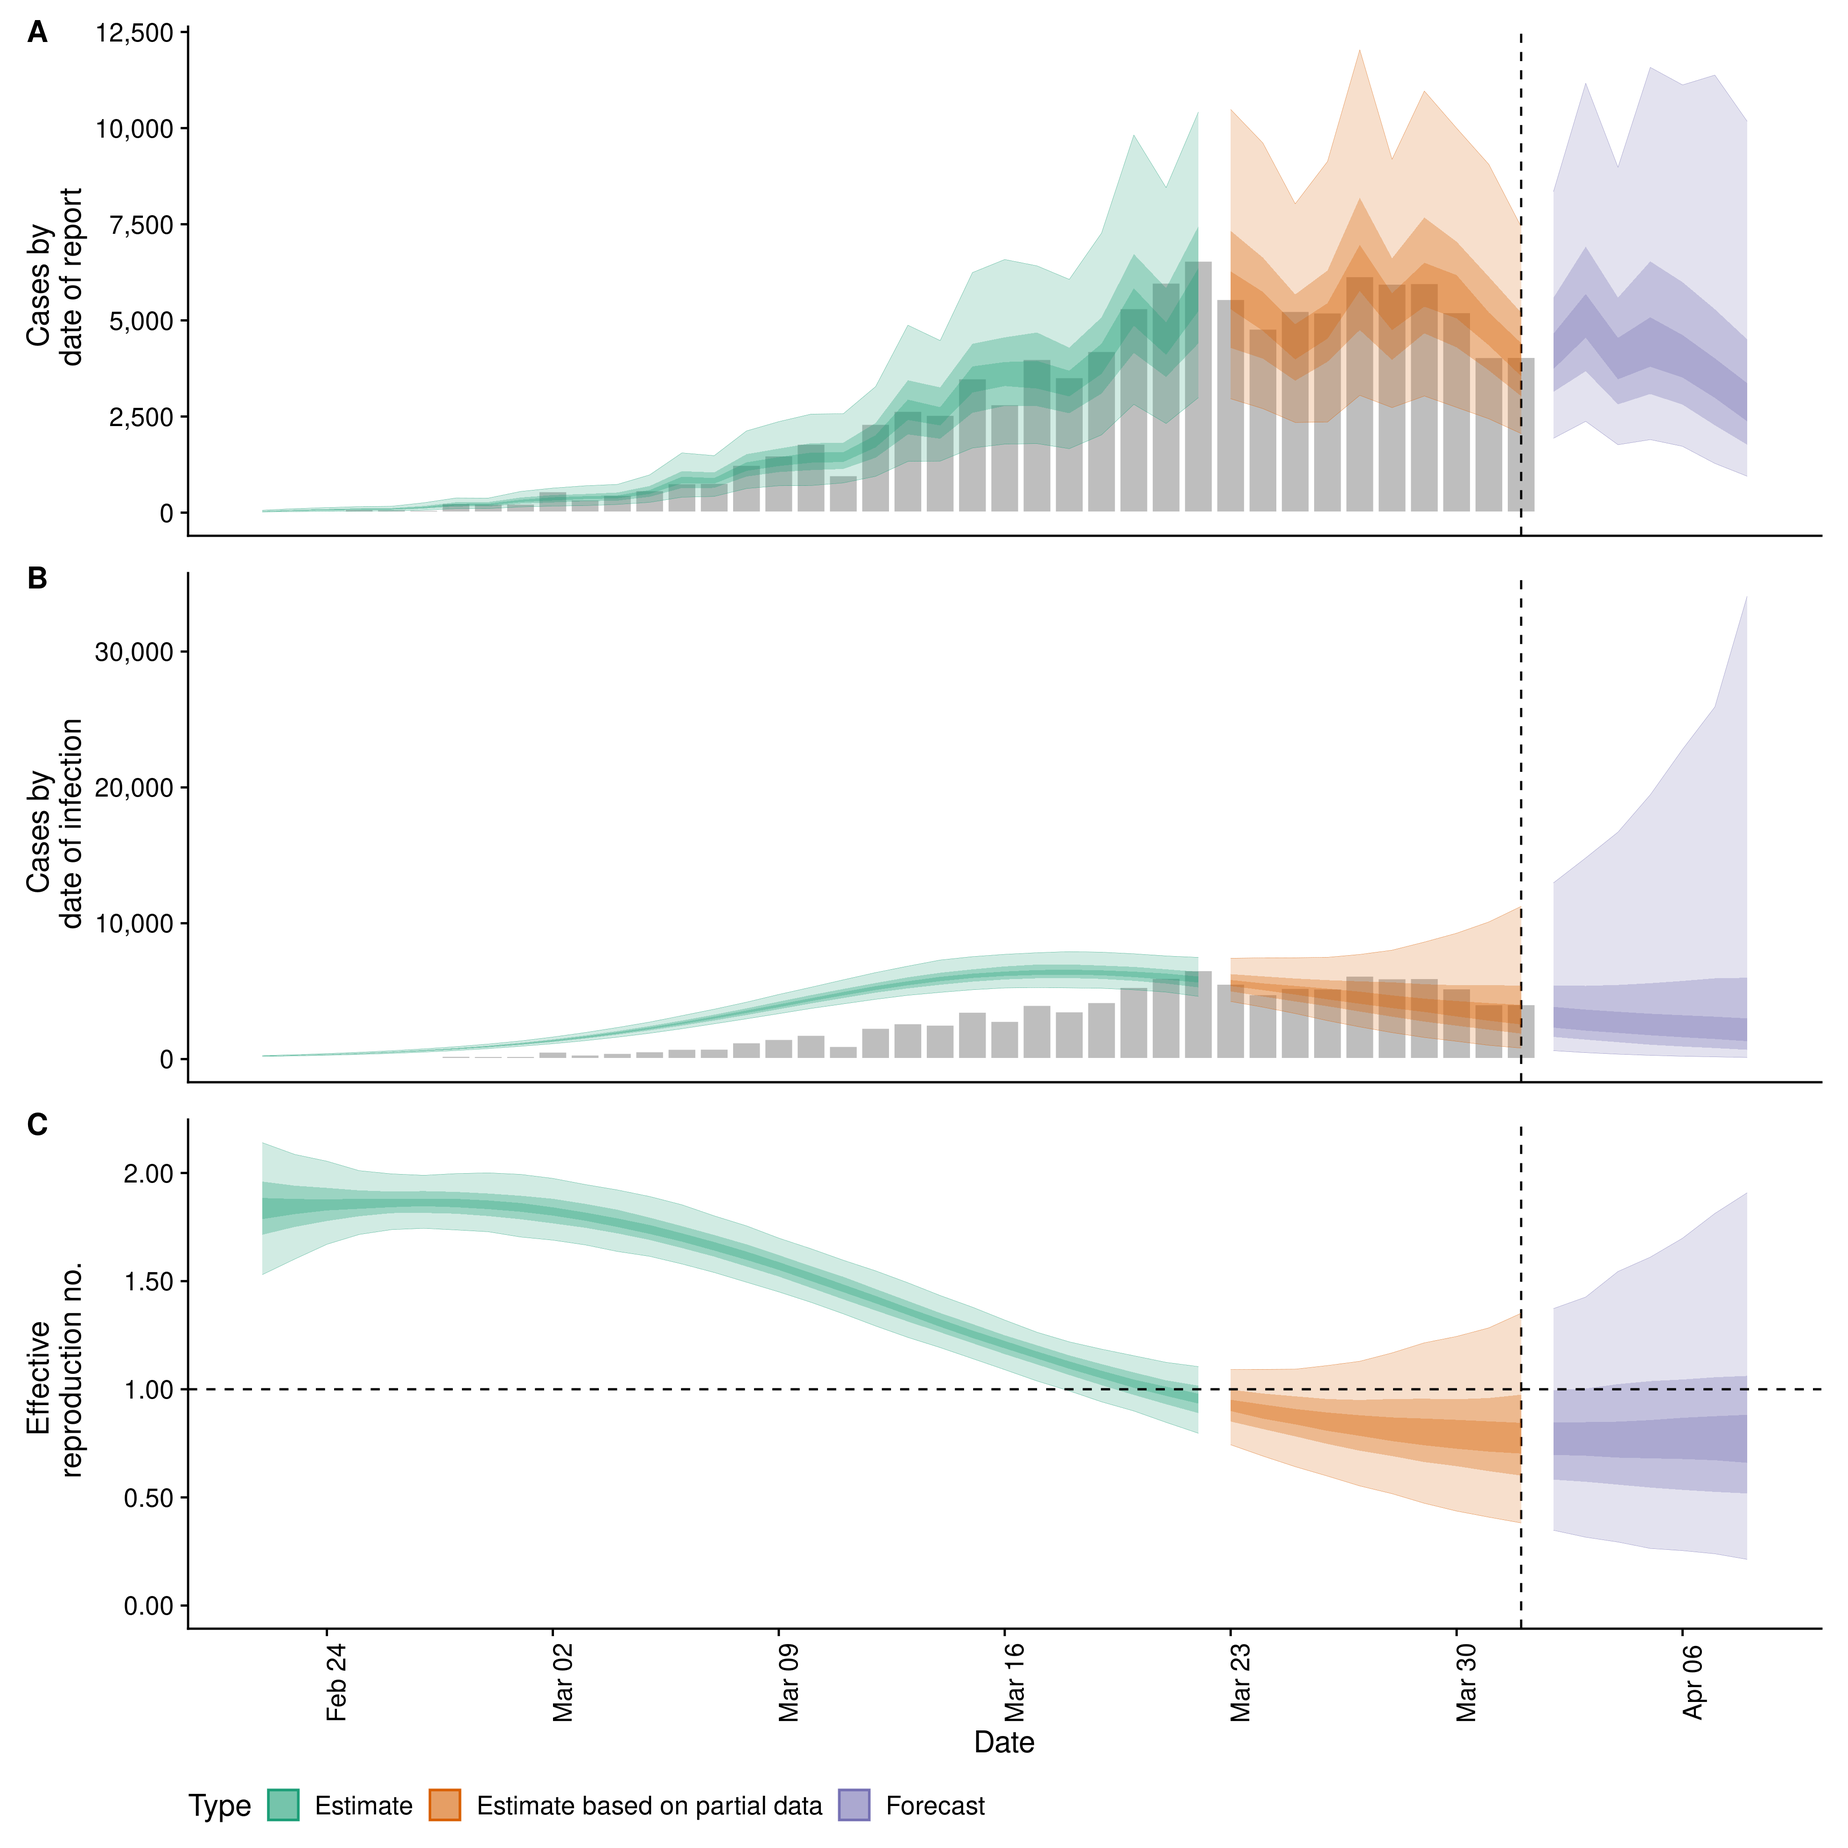
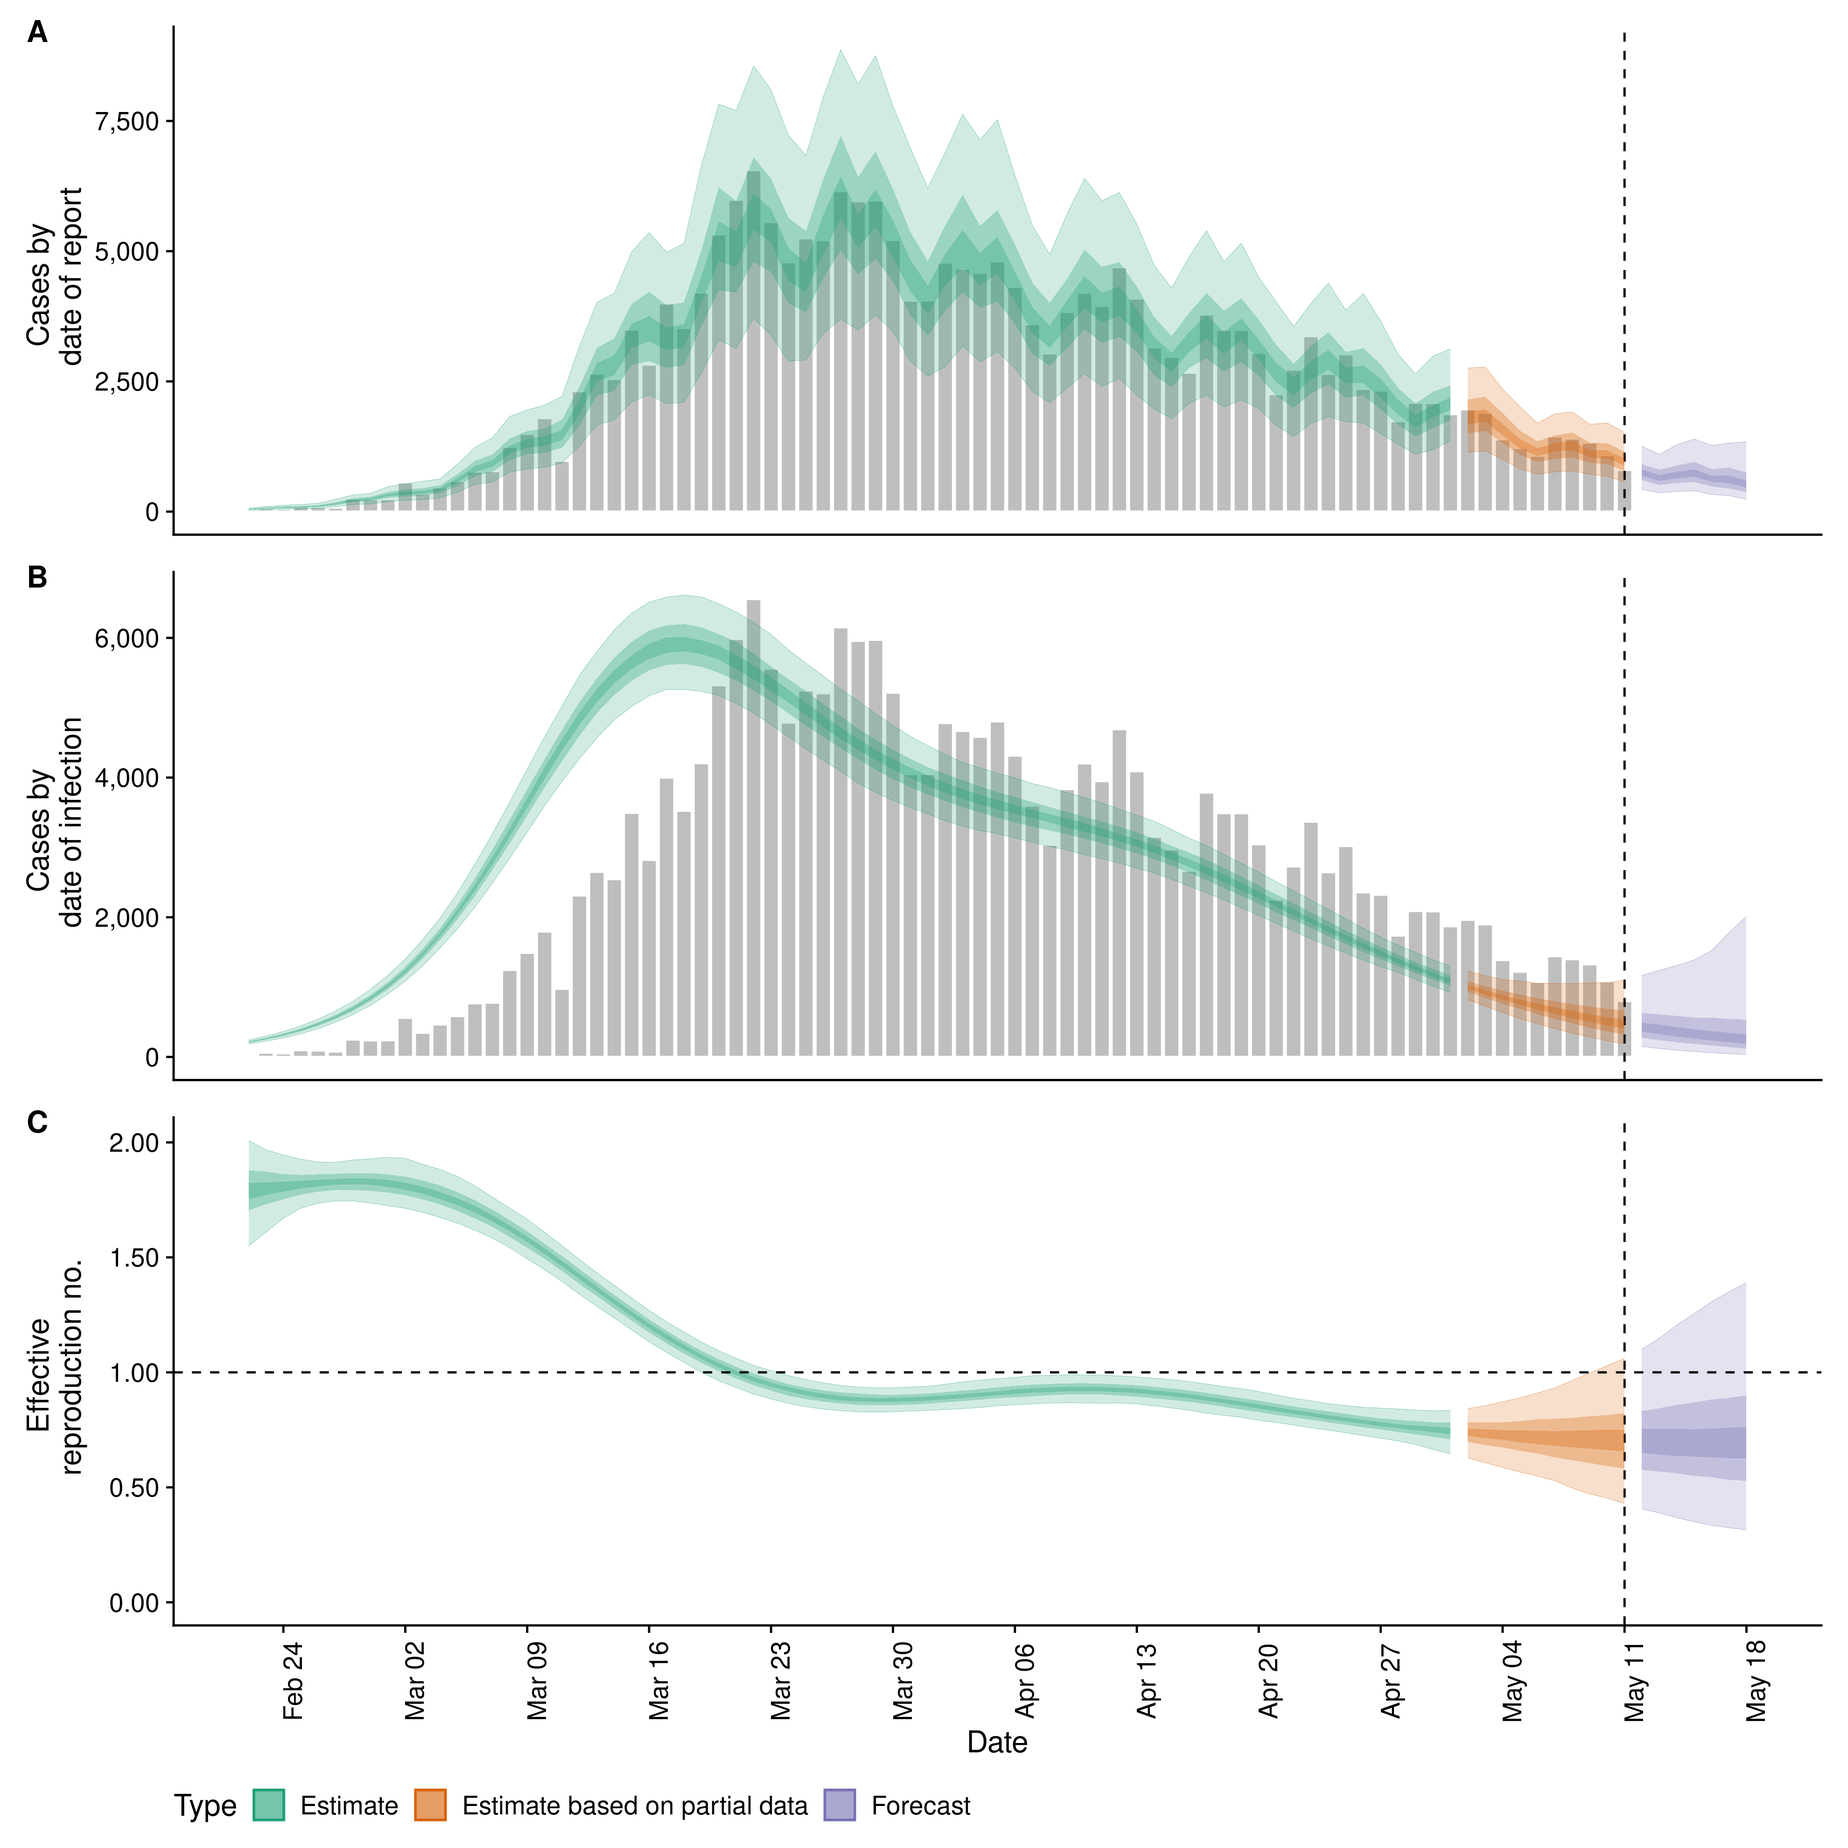
update readme

diff --git a/README.md b/README.md
@@ -40,7 +40,8 @@ internally. The time-varying reproduction estimates and the uncertain
 generation time also give time-varying estimates of the rate of growth.
 
 The default model uses a non-stationary Gaussian process to estimate the
-time-varying reproduction number. Other options include:
+time-varying reproduction number and then infer infections. Other
+options include:
 
   - A stationary Gaussian process (faster to estimate but currently
     gives reduced performance for real time estimates).
@@ -50,6 +51,8 @@ time-varying reproduction number. Other options include:
     breakpoints.
   - As a random walk (by combining a fixed reproduction number with
     regularly spaced breakpoints (i.e weekly)).
+  - Inferring infections using back-calculation and then calculating the
+    time-varing reproduction number.
 
 The documentation for
 [`estimate_infections`](https://epiforecasts.io/EpiNow2/reference/estimate_infections.html)
@@ -62,13 +65,6 @@ be forecast forwards in time using an integration with the
 to a case forecast using the renewal equation. Alternatively, the
 time-varying reproduction number and cases can be forecast using a
 Gaussian process.
-
-As a standalone tool, non-parametric back-calculation is also supported.
-This uses a novel formulation based on a smoothed mean delay shift of
-reported cases combined with a Gaussian process to determine the most
-likely outbreak trajectory. Again see the documentation for
-[`estimate_infections`](https://epiforecasts.io/EpiNow2/reference/estimate_infections.html)
-for an example.
 
 ## Installation
 
@@ -140,7 +136,8 @@ distributions are supported with the most common use case likely to be a
 incubation period followed by a reporting delay.
 
 ``` r
-reporting_delay <- bootstrapped_dist_fit(rlnorm(100, log(4), 1), max_value = 30)
+reporting_delay <- bootstrapped_dist_fit(rlnorm(1000, log(3), 1), max_value = 15,
+                                         bootstraps = 1)
 ```
 
 Here we define the incubation period and generation time based on
@@ -164,7 +161,7 @@ companion packages (see documentation for an example).
 Load example case data from `{EpiNow2}`.
 
 ``` r
-reported_cases <- example_confirmed[1:40]
+reported_cases <- example_confirmed[1:80]
 head(reported_cases)
 #>          date confirm
 #> 1: 2020-02-22      14
@@ -180,107 +177,92 @@ number, the rate of growth and forecast these estimates into the future
 by 7 days. Summarise the posterior and return a summary table and plots
 for reporting purposes. If a `target_folder` is supplied results can be
 internally saved (with the option to also turn off explicit returning of
-results). *Note that for real use cases more samples and a longer warm
-up may be needed*. If compute is limited approximate estimates can be
-derived using `method = approximate` which makes use of variational
-inference and is likely to be several orders of magnitude faster than
-the default method (though this approach is experimental).
+results). *Note: For real use cases more samples and a longer warm up
+may be needed*. See fitting progress by setting `verbose = TRUE`.
 
 ``` r
 estimates <- epinow(reported_cases = reported_cases, 
                     generation_time = generation_time,
                     delays = list(incubation_period, reporting_delay))
-#> WARN [2020-10-17 18:51:27] epinow: There were 1 divergent transitions after warmup. See
+#> WARN [2020-10-28 18:15:55] epinow: There were 1 divergent transitions after warmup. See
 #> http://mc-stan.org/misc/warnings.html#divergent-transitions-after-warmup
 #> to find out why this is a problem and how to eliminate them. - 
-#> WARN [2020-10-17 18:51:27] epinow: Examine the pairs() plot to diagnose sampling problems
+#> WARN [2020-10-28 18:15:55] epinow: Examine the pairs() plot to diagnose sampling problems
 #>  - 
-#> WARN [2020-10-17 18:51:27] epinow: Bulk Effective Samples Size (ESS) is too low, indicating posterior means and medians may be unreliable.
+#> WARN [2020-10-28 18:15:56] epinow: Bulk Effective Samples Size (ESS) is too low, indicating posterior means and medians may be unreliable.
 #> Running the chains for more iterations may help. See
-#> http://mc-stan.org/misc/warnings.html#bulk-ess -
+#> http://mc-stan.org/misc/warnings.html#bulk-ess - 
+#> WARN [2020-10-28 18:15:57] epinow: Tail Effective Samples Size (ESS) is too low, indicating posterior variances and tail quantiles may be unreliable.
+#> Running the chains for more iterations may help. See
+#> http://mc-stan.org/misc/warnings.html#tail-ess -
 names(estimates)
 #> [1] "estimates"                "estimated_reported_cases"
 #> [3] "summary"                  "plots"
 ```
 
 Both summary measures and posterior samples are returned for all
-parameters in an easily explored format.
+parameters in an easily explored format. Summarised measures can be
+accessed using `summary` for ease.
 
 ``` r
-head(estimates$estimates$samples)
-#>      variable  parameter time       date sample     value strat     type
-#> 1: infections infections    1 2020-02-10      1  2.179007  <NA> estimate
-#> 2: infections infections    2 2020-02-11      1  9.525386  <NA> estimate
-#> 3: infections infections    3 2020-02-12      1 17.027600  <NA> estimate
-#> 4: infections infections    4 2020-02-13      1 28.206571  <NA> estimate
-#> 5: infections infections    5 2020-02-14      1 43.933784  <NA> estimate
-#> 6: infections infections    6 2020-02-15      1 60.054254  <NA> estimate
-head(estimates$estimates$summarised)
+head(summary(estimates, type = "estimates"))
 #>          date variable strat     type   median     mean         sd lower_90
-#> 1: 2020-02-22        R  <NA> estimate 1.549624 1.549110 0.21019172 1.211349
-#> 2: 2020-02-23        R  <NA> estimate 1.588556 1.584294 0.16866418 1.306297
-#> 3: 2020-02-24        R  <NA> estimate 1.621249 1.621112 0.13137269 1.412096
-#> 4: 2020-02-25        R  <NA> estimate 1.655946 1.658159 0.10155237 1.496369
-#> 5: 2020-02-26        R  <NA> estimate 1.691028 1.693870 0.08394599 1.565666
-#> 6: 2020-02-27        R  <NA> estimate 1.721392 1.726590 0.08133720 1.597693
+#> 1: 2020-02-22        R  <NA> estimate 1.786782 1.787457 0.13522192 1.550465
+#> 2: 2020-02-23        R  <NA> estimate 1.797566 1.797380 0.10692184 1.609453
+#> 3: 2020-02-24        R  <NA> estimate 1.808140 1.807251 0.08308303 1.670462
+#> 4: 2020-02-25        R  <NA> estimate 1.814874 1.816374 0.06518351 1.714157
+#> 5: 2020-02-26        R  <NA> estimate 1.821462 1.823993 0.05480635 1.735223
+#> 6: 2020-02-27        R  <NA> estimate 1.828548 1.829316 0.05208623 1.745749
 #>    lower_50 lower_20 upper_20 upper_50 upper_90
-#> 1: 1.413297 1.497266 1.607370 1.683982 1.885375
-#> 2: 1.473039 1.541564 1.634822 1.699617 1.857260
-#> 3: 1.529081 1.591867 1.653258 1.713121 1.838594
-#> 4: 1.587340 1.632850 1.679249 1.727274 1.824966
-#> 5: 1.636651 1.670006 1.713387 1.752996 1.836745
-#> 6: 1.672337 1.704040 1.744467 1.779268 1.860987
+#> 1: 1.704961 1.752871 1.823508 1.879213 2.008546
+#> 2: 1.730812 1.771682 1.826039 1.872769 1.967753
+#> 3: 1.752713 1.785954 1.828918 1.861805 1.945575
+#> 4: 1.772790 1.799900 1.832135 1.858523 1.926977
+#> 5: 1.786083 1.808577 1.837048 1.861203 1.914268
+#> 6: 1.792769 1.816007 1.840706 1.862948 1.913533
 ```
 
 Reported cases are returned separately in order to ease reporting of
 forecasts and model evaluation.
 
 ``` r
-head(estimates$estimated_reported_cases$samples)
-#>          date sample cases  type
-#> 1: 2020-02-22      1    42 gp_rt
-#> 2: 2020-02-23      1    99 gp_rt
-#> 3: 2020-02-24      1   170 gp_rt
-#> 4: 2020-02-25      1    67 gp_rt
-#> 5: 2020-02-26      1    91 gp_rt
-#> 6: 2020-02-27      1   143 gp_rt
-head(estimates$estimated_reported_cases$summarised)
+head(summary(estimates, type = "estimated_reported_cases"))
 #>          date  type median    mean       sd lower_90 lower_50 lower_20 upper_20
-#> 1: 2020-02-22 gp_rt     54  57.086 25.42080     24.0    39.00     47.0       60
-#> 2: 2020-02-23 gp_rt     84  89.902 39.89837     36.0    62.00     75.0       94
-#> 3: 2020-02-24 gp_rt    106 112.554 49.82889     44.0    79.00     95.0      118
-#> 4: 2020-02-25 gp_rt    123 128.696 55.77681     53.0    89.75    109.0      134
-#> 5: 2020-02-26 gp_rt    125 133.923 58.70683     55.9    91.00    112.0      139
-#> 6: 2020-02-27 gp_rt    170 182.599 79.71963     77.0   127.00    152.6      188
+#> 1: 2020-02-22 gp_rt     42  43.422 13.10770    24.00       34     39.0     46.0
+#> 2: 2020-02-23 gp_rt     64  66.274 18.23325    39.00       53     61.0     69.0
+#> 3: 2020-02-24 gp_rt     81  82.887 22.69434    48.00       67     76.0     87.0
+#> 4: 2020-02-25 gp_rt     88  90.976 26.47365    52.00       72     82.0     94.0
+#> 5: 2020-02-26 gp_rt    104 106.637 30.30693    59.95       86     97.6    112.0
+#> 6: 2020-02-27 gp_rt    152 154.337 44.13086    93.00      122    142.0    161.4
 #>    upper_50 upper_90
-#> 1:    70.00   106.00
-#> 2:   111.00   167.05
-#> 3:   139.00   197.00
-#> 4:   159.00   221.05
-#> 5:   166.00   232.05
-#> 6:   225.25   333.00
+#> 1:       52    67.00
+#> 2:       78    97.00
+#> 3:       97   122.00
+#> 4:      106   138.05
+#> 5:      125   159.00
+#> 6:      178   238.00
 ```
 
 A summary table is returned for rapidly understanding the results and
 for reporting purposes.
 
 ``` r
-knitr::kable(estimates$summary[, -c("numeric_estimate")])
+knitr::kable(summary(estimates))
 ```
 
 | measure                               | estimate              |
 | :------------------------------------ | :-------------------- |
-| New confirmed cases by infection date | 3073 (496 – 12531)    |
-| Expected change in daily cases        | Unsure                |
-| Effective reproduction no.            | 0.8 (0.3 – 1.4)       |
-| Rate of growth                        | \-0.06 (-0.22 – 0.11) |
-| Doubling/halving time (days)          | \-11.1 (6.5 – -3.1)   |
+| New confirmed cases by infection date | 466 (184 – 1098)      |
+| Expected change in daily cases        | Likely decreasing     |
+| Effective reproduction no.            | 0.7 (0.4 – 1.1)       |
+| Rate of growth                        | \-0.09 (-0.18 – 0.02) |
+| Doubling/halving time (days)          | \-7.9 (42.2 – -4)     |
 
 A range of plots are returned (with the single summary plot shown
-below).
+below). These plots can also be generated using a `plot` method.
 
 ``` r
-estimates$plots$summary
+plot(estimates)
 ```
 
 ![](man/figures/unnamed-chunk-13-1.png)<!-- -->
@@ -313,20 +295,20 @@ in parallel depending on the settings used).
 estimates <- regional_epinow(reported_cases = reported_cases, 
                              generation_time = generation_time,
                              delays = list(incubation_period, reporting_delay))
-#> INFO [2020-10-17 18:51:30] Producing following optional outputs: regions, summary, samples, plots, latest
-#> INFO [2020-10-17 18:51:30] Reporting estimates using data up to: 2020-04-01
-#> INFO [2020-10-17 18:51:30] No target directory specified so returning output
-#> INFO [2020-10-17 18:51:30] Producing estimates for: testland, realland
-#> INFO [2020-10-17 18:51:30] Regions excluded: none
-#> INFO [2020-10-17 18:51:30] Showing progress using progressr. Modify this behaviour using progressr::handlers.
-#> INFO [2020-10-17 18:56:48] Completed estimates for: testland
-#> INFO [2020-10-17 19:01:06] Completed estimates for: realland
-#> INFO [2020-10-17 19:01:06] Completed regional estimates
-#> INFO [2020-10-17 19:01:06] Regions with estimates: 2
-#> INFO [2020-10-17 19:01:06] Regions with runtime errors: 0
-#> INFO [2020-10-17 19:01:06] Producing summary
-#> INFO [2020-10-17 19:01:06] No summary directory specified so returning summary output
-#> INFO [2020-10-17 19:01:06] No target directory specified so returning timings
+#> INFO [2020-10-28 18:16:02] Producing following optional outputs: regions, summary, samples, plots, latest
+#> INFO [2020-10-28 18:16:02] Reporting estimates using data up to: 2020-05-11
+#> INFO [2020-10-28 18:16:02] No target directory specified so returning output
+#> INFO [2020-10-28 18:16:02] Producing estimates for: testland, realland
+#> INFO [2020-10-28 18:16:02] Regions excluded: none
+#> INFO [2020-10-28 18:16:02] Showing progress using progressr. Modify this behaviour using progressr::handlers.
+#> INFO [2020-10-28 18:33:24] Completed estimates for: testland
+#> INFO [2020-10-28 20:22:38] Completed estimates for: realland
+#> INFO [2020-10-28 20:22:38] Completed regional estimates
+#> INFO [2020-10-28 20:22:38] Regions with estimates: 2
+#> INFO [2020-10-28 20:22:38] Regions with runtime errors: 0
+#> INFO [2020-10-28 20:22:38] Producing summary
+#> INFO [2020-10-28 20:22:38] No summary directory specified so returning summary output
+#> INFO [2020-10-28 20:22:39] No target directory specified so returning timings
 ```
 
 Results from each region are stored in a `regional` list with across
@@ -349,8 +331,8 @@ knitr::kable(estimates$summary$summarised_results$table)
 
 | Region   | New confirmed cases by infection date | Expected change in daily cases | Effective reproduction no. | Rate of growth        | Doubling/halving time (days) |
 | :------- | :------------------------------------ | :----------------------------- | :------------------------- | :-------------------- | :--------------------------- |
-| realland | 3209 (583 – 13391)                    | Unsure                         | 0.8 (0.3 – 1.4)            | \-0.07 (-0.22 – 0.11) | \-10.1 (6.5 – -3.1)          |
-| testland | 3009 (476 – 12444)                    | Unsure                         | 0.8 (0.3 – 1.4)            | \-0.07 (-0.22 – 0.11) | \-10.3 (6.2 – -3.1)          |
+| realland | 589 (227 – 663600)                    | Decreasing                     | 0.8 (0.5 – 1)              | \-0.06 (-0.15 – 0)    | \-11.4 (-1873.9 – -4.5)      |
+| testland | 476 (195 – 1116)                      | Likely decreasing              | 0.7 (0.4 – 1.1)            | \-0.08 (-0.17 – 0.02) | \-8.3 (43 – -4.1)            |
 
 A range of plots are again returned (with the single summary plot shown
 below).
